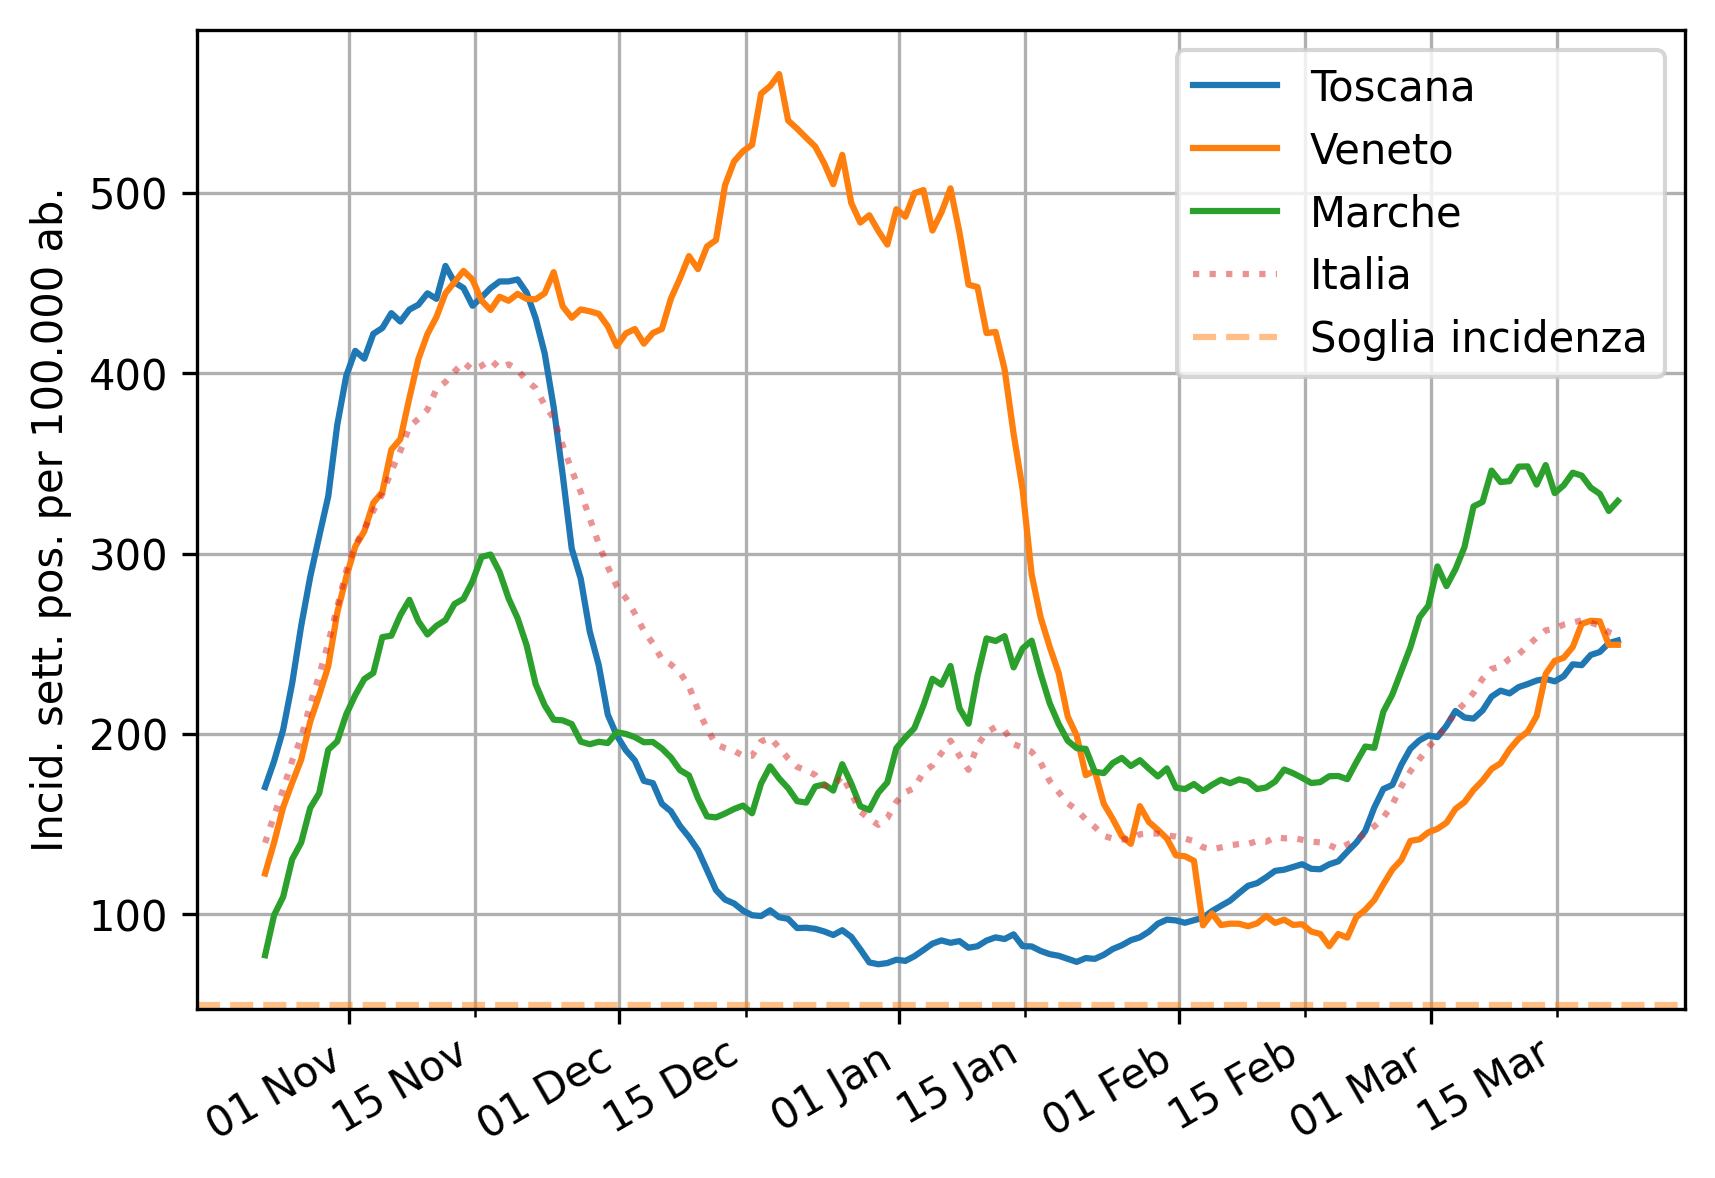
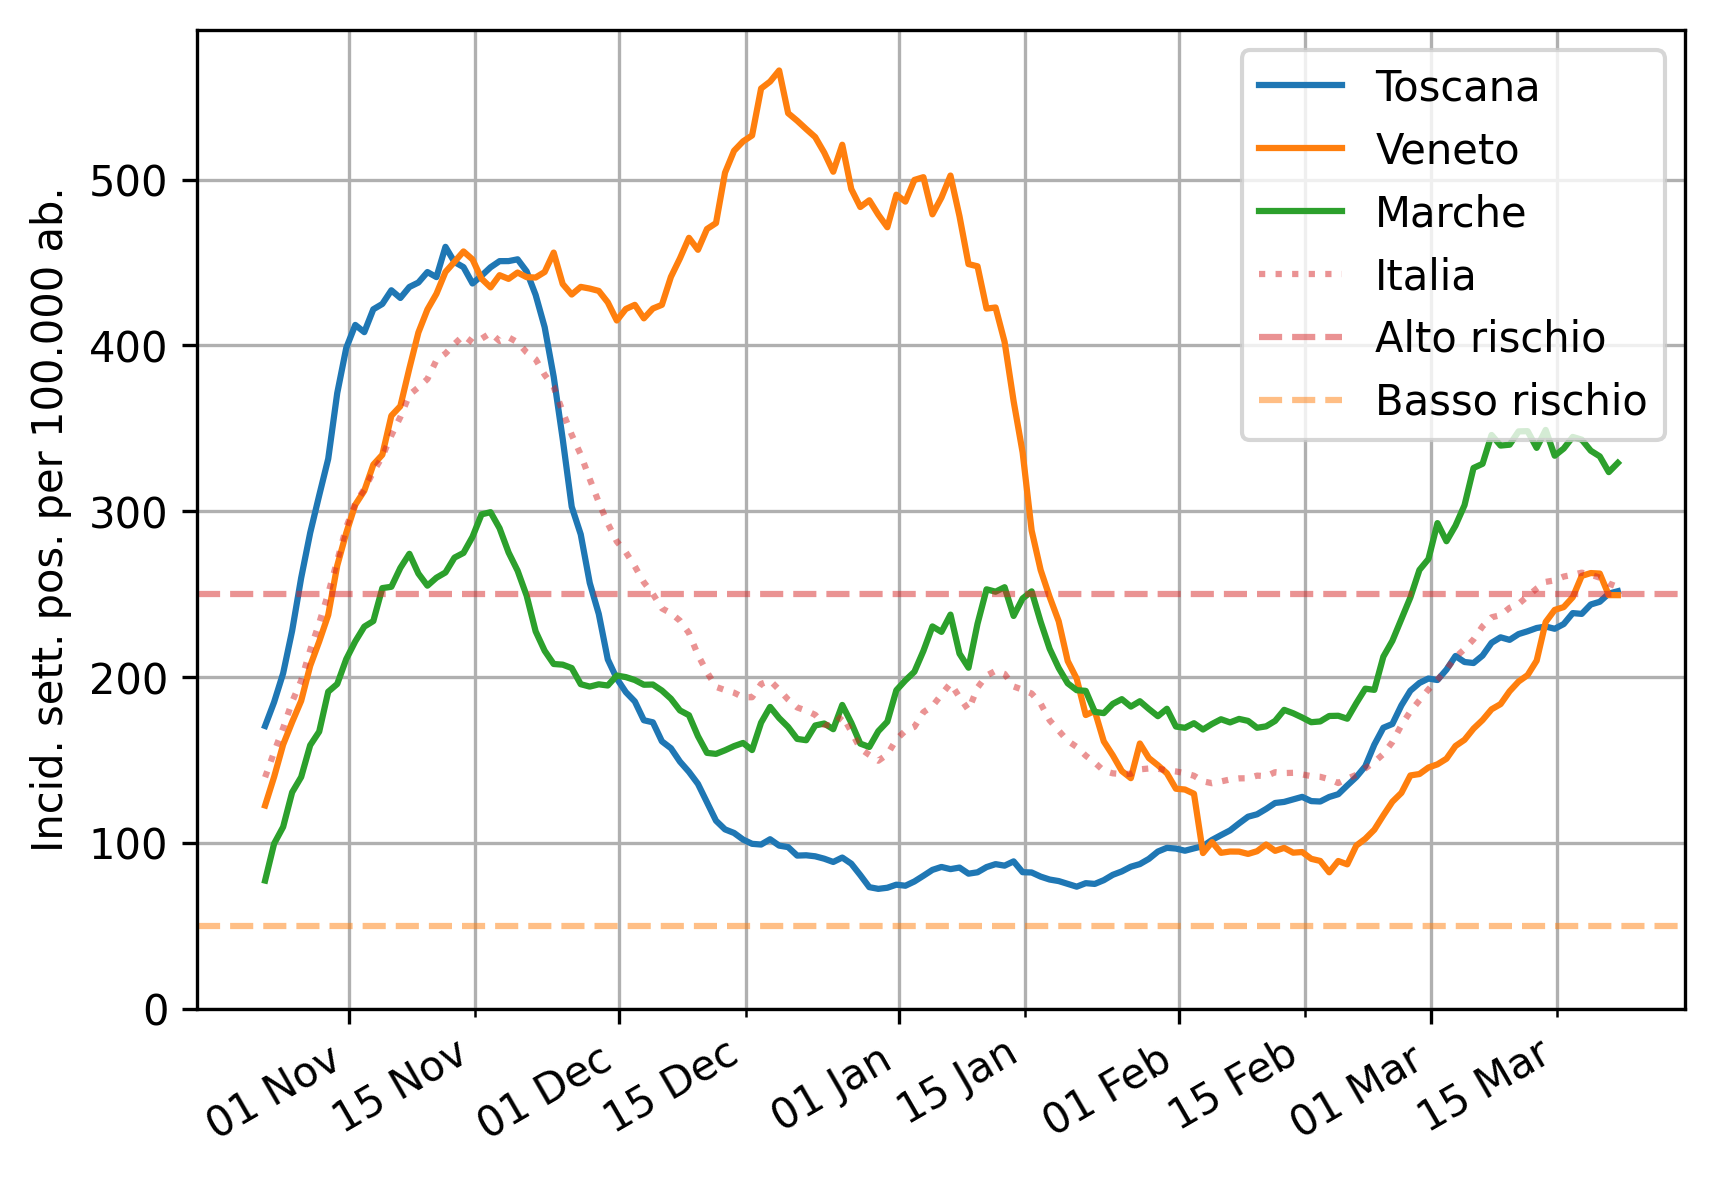
Update data

diff --git a/chart-generation/regions/analysis.py b/chart-generation/regions/analysis.py
@@ -91,8 +91,10 @@ def compute_weekly_incidence(save_image=False, show=False):
 
     plt.plot(nation_data['data'], nation_data['incid_sett_per_100000_ab'], alpha=0.5, linestyle=':', label="Italia")
 
-    plt.axhline(y=50, color='tab:orange', linestyle='--', alpha=0.5, label="Soglia incidenza")
+    plt.axhline(y=250, color='tab:red', linestyle='--', alpha=0.5, label="Alto rischio")
+    plt.axhline(y=50, color='tab:orange', linestyle='--', alpha=0.5, label="Basso rischio")
 
+    plt.gca().set_ylim([0,None])
     plt.gca().xaxis.set_major_locator(MonthLocator())
     plt.gca().xaxis.set_minor_locator(MonthLocator(bymonthday=15))
     plt.gca().xaxis.set_major_formatter(utils.std_date_formatter)
